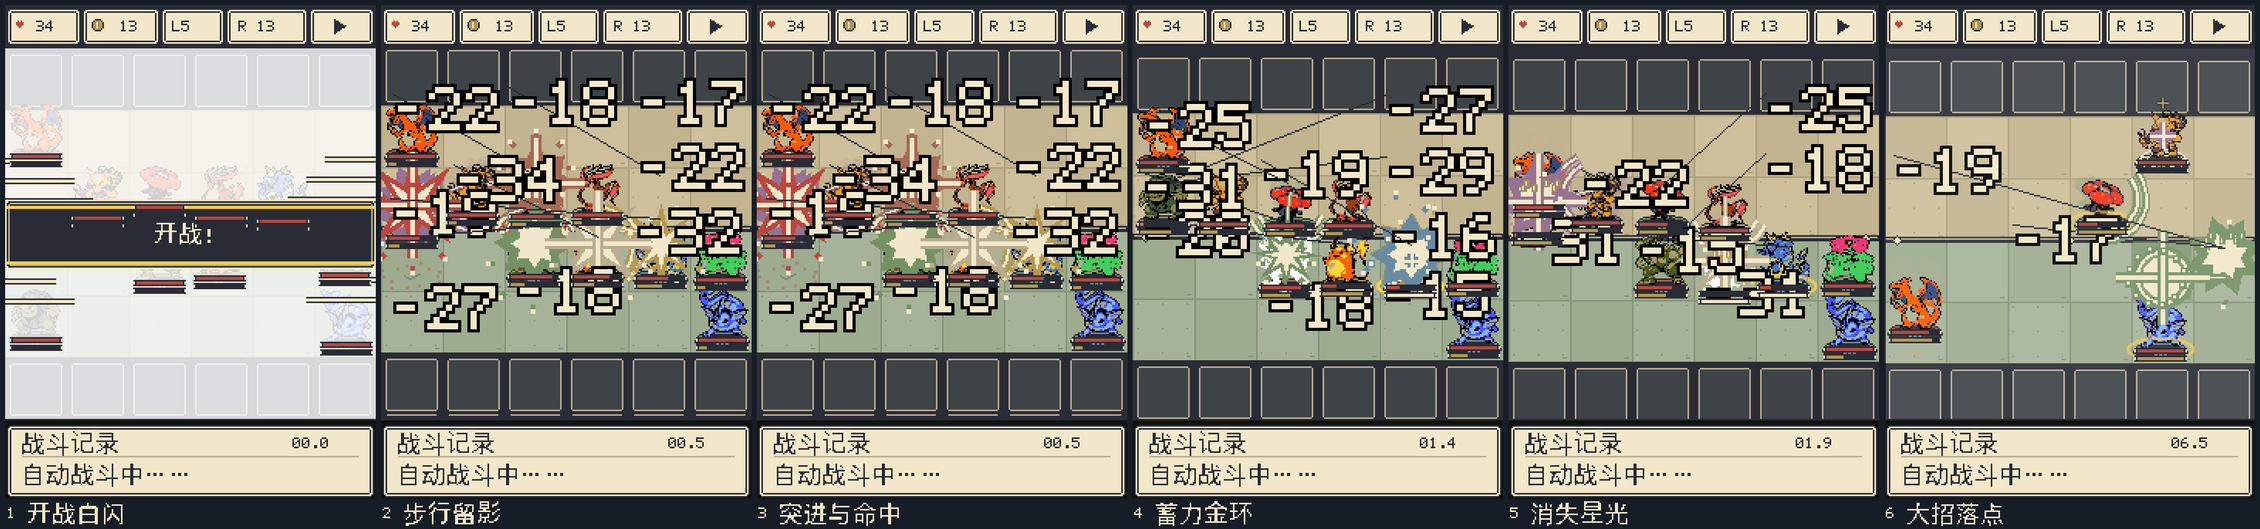
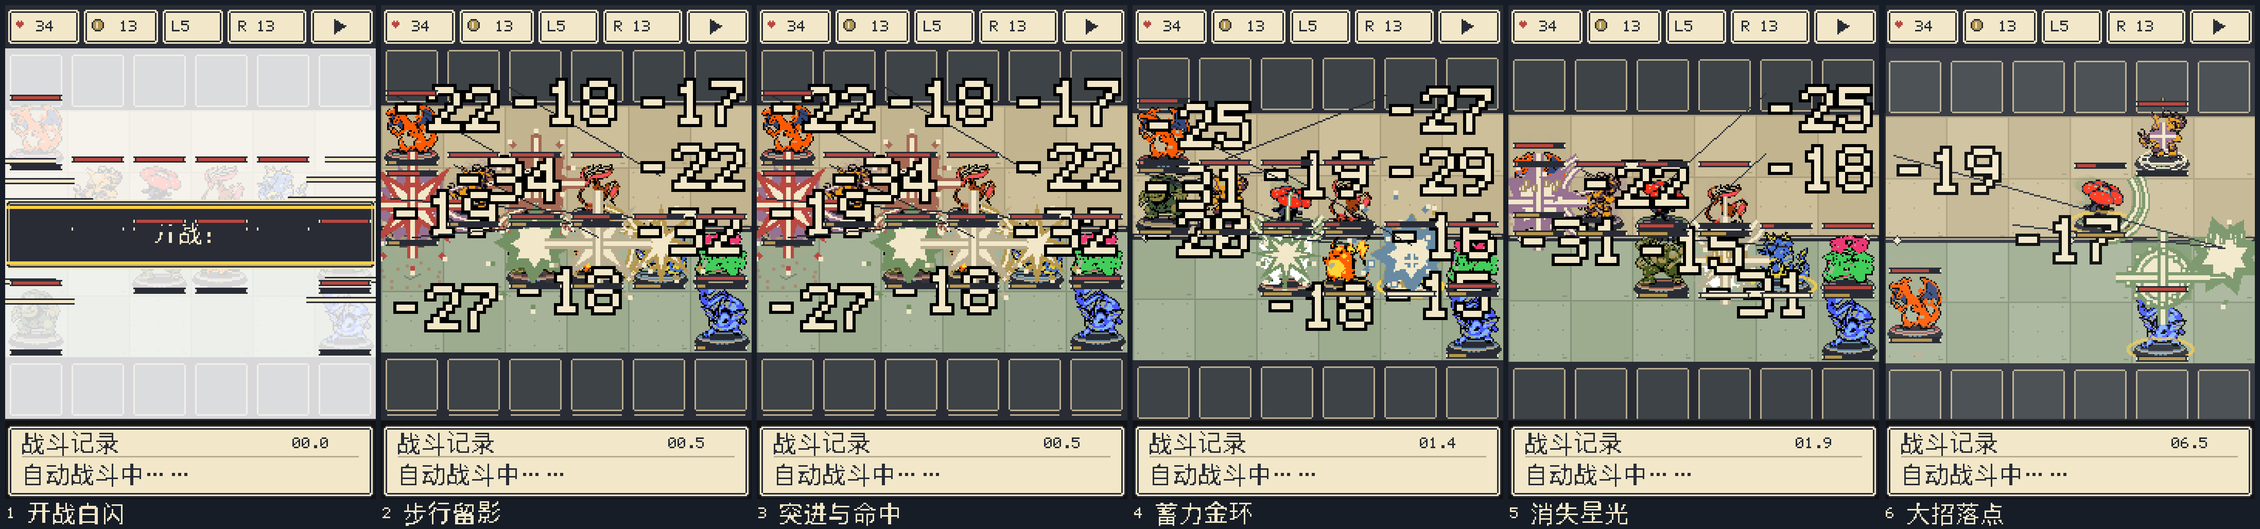
美术第 6 期：天气渲染 + 状态图标带（半成品视觉落地）
- 四天气棋盘 tint(调色板替换保纯度) + 粒子 + 金银播报文案 + HUD 图标
- 状态图标带(底座上方 6px) + 中毒紫晕/冰冻静止 + DOT 小字
- 红线：天气 diff 23429-26434(阈值1200)、全部既有检查通过、渲染 2.8s

diff --git a/tools/mockups/fx_visibility_check.py b/tools/mockups/fx_visibility_check.py
@@ -16,11 +16,14 @@
 遮挡（≤2 帧），以及全属性变体、力度边界、地痕寿命和物种动作覆盖。
 第 5 期新增 palette_purity（含全部压缩相位）与 scale_compare 三联图核对，
 在 40px 格和 32/34px 目标盒下继续执行原可见度红线。
+第 6 期直调 BattleAnimation(weather_name)，逐帧检查同阵容无天气对照
+与同事件流视觉隔离对照（均 ≥1200px），并核对真实 status_shock 图标。
 """
 
 import argparse
 import copy
 import json
+import sys
 import time
 from collections import defaultdict
 from itertools import combinations
@@ -30,8 +33,14 @@ from PIL import Image, ImageChops, ImageDraw
 
 import render_battle_gif as r
 
+sys.path.insert(0, str(r.ROOT))
+from tools.acceptance.server import SCENARIOS  # noqa: E402
+import status as status_mod  # noqa: E402
+import synergy as synergy_mod  # noqa: E402
+
 
 LIMITS = {"attack": 600, "land": 1500, "opening": 2500}
+WEATHER_LIMIT = 1200
 MAX_BOARD_OVERLAP = 4
 
 
@@ -357,6 +366,217 @@ def scale_compare_checks(anim):
     return {"species": 6, "source_px": source.width, "samples": samples, "failures": failures}
 
 
+def scenario_animation(seed, name, assets, weather_name=None):
+    """共享线上场景阵容，开关只在构造期间启用，绝不修改 sim 文件。"""
+    sc = SCENARIOS[name]
+    pieces = {p.name: p for group in r.build_roster().values() for p in group}
+    previous, previous_synergy = status_mod.STATUS_ON, synergy_mod.SYNERGIES_ON
+    try:
+        status_mod.STATUS_ON = bool(sc.get("status"))
+        synergy_mod.SYNERGIES_ON = False  # /anim 的默认 synergy=False。
+        return r.BattleAnimation([pieces[n] for n in sc["a"]], [pieces[n] for n in sc["b"]],
+                                 seed, assets.front, assets.pal, assets.font,
+                                 weather_name=weather_name)
+    finally:
+        status_mod.STATUS_ON = previous
+        synergy_mod.SYNERGIES_ON = previous_synergy
+
+
+def weather_checks(seed, assets, output):
+    failures, rows = [], []
+    rect = (r.BX, r.BY, r.BX + r.BCOLS * r.BCELL, r.BY + r.BROWS * r.BCELL)
+    for weather in r.WEATHER_PALETTES:
+        scenario = f"weather_{weather}" if weather != "hail" else "weather_rain"
+        anim = scenario_animation(seed, scenario, assets, weather)
+        clear = scenario_animation(seed, scenario, assets)
+        samples, visual_samples = [], []
+        maximum_overlap, meter_streak, max_streak, meter_checks = 0, 0, 0, 0
+        t, end = 0.0, max(e[0] for e in anim.events) + 1.2
+        while t <= end:
+            anim._ensure(t)
+            clear._ensure(t)
+            board = board_frame(anim, t)
+            # 同 seed 同阵容无天气；另外只关闭渲染天气，排除数值臂造成的 diff。
+            reference = board_frame(clear, t)
+            visual_clear = copy.copy(anim)
+            visual_clear.weather_name = None
+            isolated = board_frame(visual_clear, t)
+            count = diff_pixels(reference.crop(rect), board.crop(rect))
+            visual_count = diff_pixels(isolated.crop(rect), board.crop(rect))
+            samples.append(count)
+            visual_samples.append(visual_count)
+            if min(count, visual_count) < WEATHER_LIMIT:
+                failures.append({"kind": "weather", "weather": weather, "t": round(t, 4),
+                                 "diff_1x": count, "visual_only_diff_1x": visual_count})
+            overlap, _, meters, obscured, layer_failures = unit_layer_checks(anim, t, board)
+            maximum_overlap = max(maximum_overlap, overlap)
+            meter_checks += meters
+            meter_streak = meter_streak + 1 if obscured else 0
+            max_streak = max(max_streak, meter_streak)
+            failures.extend(layer_failures)
+            particles = r.weather_particles(weather, t)
+            if len(particles) != 8 or any(not (r.BX <= x <= rect[2] - w and
+                                            r.BY <= y <= rect[3] - h)
+                                         for x, y, w, h, _ in particles):
+                failures.append({"kind": "weather_particles", "weather": weather, "t": t})
+            if r.effect_frame(t) == 10:
+                save_pair(output, f"seed-{seed}-weather-{weather}", isolated, board)
+            t += r.FPS_DT
+        # 每格只能出现其原有颜色的天气替代色，不接受整图滤镜或软边。
+        before, after = r.board_floor(None), r.board_floor(weather)
+        replacements = dict(zip(r.FLOOR_COLORS, r.WEATHER_PALETTES[weather]))
+        off_palette = 0
+        for cy in range(r.BROWS):
+            for cx in range(r.BCOLS):
+                tile = (cx * r.BCELL, cy * r.BCELL, (cx + 1) * r.BCELL, (cy + 1) * r.BCELL)
+                allowed = {replacements.get(c[:3], c[:3]) + (255,)
+                           for _, c in before.crop(tile).getcolors(r.BCELL ** 2)}
+                off_palette += sum(n for n, c in after.crop(tile).getcolors(r.BCELL ** 2)
+                                   if c not in allowed)
+        if off_palette or max_streak > 2:
+            failures.append({"kind": "weather_layers", "weather": weather,
+                             "off_palette_pixels": off_palette, "meter_occlusion": max_streak})
+        for char in r.WEATHER_MESSAGES[weather]:
+            glyph = Image.new("RGBA", (16, 16))
+            r.draw_weather_text(glyph, (0, 0), char, anim.font)
+            if not glyph.getbbox():
+                failures.append({"kind": "weather_message_missing_glyph", "char": char})
+        rows.append({"weather": weather, "frames": len(samples), "min_1x": min(samples),
+                     "visual_only_min_1x": min(visual_samples), "threshold_1x": WEATHER_LIMIT,
+                     "off_palette_pixels": off_palette, "particles_per_frame": 8,
+                     "max_overlap_px": maximum_overlap, "meter_checks": meter_checks,
+                     "max_meter_occlusion_frames": max_streak})
+    return {"samples": rows, "failures": failures}
+
+
+def status_checks(seed, assets, output):
+    anim = scenario_animation(seed, "status_shock", assets)
+    failures, samples = [], []
+    applies = [ev for ev in anim.events if ev[1] == "status" and ev[4] == "apply"]
+    if not applies:
+        failures.append({"kind": "status_fixture", "reason": "no status apply events"})
+    t, end, checked = 0.0, max(e[0] for e in anim.events) + 1.2, 0
+    meter_streak, max_streak, max_overlap = 0, 0, 0
+    while t <= end:
+        display = anim.frame(t).convert("RGB")
+        board = board_frame(anim, t)
+        overlap, _, _, obscured, layer_failures = unit_layer_checks(anim, t, board)
+        max_overlap = max(max_overlap, overlap)
+        meter_streak = meter_streak + 1 if obscured else 0
+        max_streak = max(max_streak, meter_streak)
+        failures.extend(layer_failures)
+        for idx, au in anim.units.items():
+            kinds = anim._active_statuses(au, t)[:3]
+            if not kinds or au.dying(t):
+                continue
+            layer = Image.new("RGBA", (r.W, r.H))
+            anim._draw_status_band(layer, au, t)
+            bounds = layer.getbbox()
+            if bounds is None or bounds[3] - bounds[1] != 6 or bounds[2] - bounds[0] > 20:
+                failures.append({"kind": "status_band", "t": t, "unit": idx, "bounds": bounds})
+                continue
+            checked += 1
+            meters = Image.new("RGBA", (r.W, r.H))
+            anim._draw_unit_meters(meters, au, t, anim._unit_pose(au, t))
+            shake, visible, colored = anim._board_shake(t), 0, 0
+            for y in range(bounds[1], bounds[3]):
+                for x in range(bounds[0], bounds[2]):
+                    pixel = layer.getpixel((x, y))
+                    if pixel[3] and meters.getpixel((x, y))[3]:
+                        failures.append({"kind": "status_meter_overlap", "t": t, "unit": idx})
+                    if pixel[3] and pixel[:3] != r.INK:
+                        colored += 1
+                        visible += int(board.getpixel((x, y + shake)) == pixel[:3])
+            if not colored or visible != colored:
+                failures.append({"kind": "status_visibility", "t": t, "unit": idx,
+                                 "expected": colored, "visible": visible})
+            covered = any(c[0] <= t < c[1] for c in anim.cutins)
+            if not covered and (not samples or t - samples[-1]["t"] >= 0.5):
+                row = {"t": round(t, 4), "unit": idx, "kinds": kinds,
+                       "icon_pixels": visible, "bounds": bounds}
+                samples.append(row)
+                if output:
+                    display.save(output / f"seed-{seed}-status-{t:.1f}-unit-{idx}.png")
+        t += r.FPS_DT
+    if not checked or max_streak > 2:
+        failures.append({"kind": "status_coverage", "checked": checked, "meter_occlusion": max_streak})
+    return {"apply_events": len(applies), "checked_unit_frames": checked, "samples": samples,
+            "max_overlap_px": max_overlap, "max_meter_occlusion_frames": max_streak,
+            "failures": failures}
+
+
+def status_contract_checks(assets):
+    """补齐真实电队不覆盖的状态：只向独立回放夹具注入公开事件。"""
+    anim = copy.copy(assets)
+    anim.units = {i: copy.deepcopy(assets.units[i]) for i in range(6)}
+    kinds = ("burn", "poison", "para", "freeze", "sleep", "flinch")
+    anim.events = [(0., "deploy", i, (i % 3 * 2, i // 3 * 2)) for i in range(6)]
+    anim.events += [(1., "status", i, kind, "apply", 0) for i, kind in enumerate(kinds)]
+    anim.events += [(1.2, "status", 0, "burn", "tick", 3),
+                    (1.2, "status", 1, "poison", "tick", 4),
+                    (1.4, "status", 3, "freeze", "apply", 0)]
+    anim.events += [(2., "status", i, kind, "expire", 0) for i, kind in enumerate(kinds)]
+    anim._reset()
+    failures, checked = [], []
+    before = anim.frame(0.9)
+    applied = anim.frame(1.)
+    for i, kind in enumerate(kinds):
+        canonical = "paralysis" if kind == "para" else kind
+        if anim._active_statuses(anim.units[i], 1.) != [canonical]:
+            failures.append({"kind": "status_apply", "status": kind})
+        checked.append(canonical)
+    # 冻结后的位置、压缩、四颜色与完整身体像素均保持不变（含刷新）。
+    frozen_frames = []
+    for t in (1., 1.1, 1.5, 1.9):
+        anim._ensure(t)
+        au = anim.units[3]
+        layer = Image.new("RGBA", (r.W, r.H))
+        anim._draw_unit(layer, au, t, anim._unit_pose(au, t), r.ParticleBudget())
+        frozen_frames.append(layer)
+    if any(diff_pixels(frozen_frames[0], frame) for frame in frozen_frames[1:]):
+        failures.append({"kind": "freeze_motion"})
+    for i, damage in ((0, 3), (1, 4)):
+        if anim.units[i].hp != anim.units[i].u.max_hp - damage:
+            failures.append({"kind": "status_dot_hp", "unit": i})
+    if anim._active_statuses(anim.units[5], 1.9):
+        failures.append({"kind": "flinch_lifetime"})
+    # DOT 与普攻使用同一个避让器，同时发生也保持 scale=1 和独立位置。
+    calls = []
+    anim._draw_damage_number = lambda img, xy, text, color, scale: calls.append((xy, color, scale))
+    anim._ensure(1.2)
+    anim.floats.append((1.2, *anim.units[0].render_px(1.2), "-12", (255, 255, 255)))
+    anim._draw_floats(Image.new("RGBA", (r.W, r.H)), 1.2)
+    dot_calls = [call for call in calls if call[1] in r.DOT_COLORS.values()]
+    if len(dot_calls) != 2 or any(call[2] != 1 for call in dot_calls) or len({c[0] for c in calls}) != 3:
+        failures.append({"kind": "status_dot_numbers", "calls": calls})
+    del anim._draw_damage_number
+    # 各身体状态仍只有四种替代色，alpha 保留二值；天气不改精灵色板。
+    for status in ("poison", "freeze"):
+        for squash in range(7):
+            sprite = anim._status_sprite(6, 3, squash, status)
+            pixels = sprite.getcolors(sprite.width * sprite.height)
+            if len({c[:3] for _, c in pixels if c[3]}) > 4 or any(c[3] not in (0, 255) for _, c in pixels):
+                failures.append({"kind": "status_palette", "status": status, "squash": squash})
+    anim._ensure(2.)
+    if any(au.statuses for au in anim.units.values()):
+        failures.append({"kind": "status_expire"})
+    if diff_pixels(before, anim.frame(0.9)) or diff_pixels(applied, anim.frame(1.)):
+        failures.append({"kind": "status_rewind"})
+    # 1 减益 + 2 增益只占 20×6px；死亡无须 expire 即清除图标。
+    for kind in r.BUFF_KINDS:
+        anim._apply((1., "status", 0, kind, "apply", 0))
+    layer = Image.new("RGBA", (r.W, r.H))
+    anim._draw_status_band(layer, anim.units[0], 1.)
+    left, top, right, bottom = layer.getbbox()
+    if (right - left, bottom - top) != (20, 6):
+        failures.append({"kind": "status_band_cap"})
+    anim._apply((1.1, "die", 0))
+    if anim.units[0].statuses:
+        failures.append({"kind": "status_death_cleanup"})
+    return {"kinds": checked, "frozen_frames": len(frozen_frames),
+            "dot_numbers": len(dot_calls), "palette_variants": 14, "failures": failures}
+
+
 def check_seed(seed, output=None):
     start = time.perf_counter()
     anim = make_animation(seed)
@@ -462,6 +682,15 @@ def check_seed(seed, output=None):
     failures.extend(comparison["failures"])
     summary["palette_purity"] = {k: v for k, v in purity.items() if k != "failures"}
     summary["scale_compare"] = {k: v for k, v in comparison.items() if k != "failures"}
+    weather = weather_checks(seed, anim, output)
+    statuses = status_checks(seed, anim, output)
+    status_contracts = status_contract_checks(anim)
+    failures.extend(weather["failures"])
+    failures.extend(statuses["failures"])
+    failures.extend(status_contracts["failures"])
+    summary["weather"] = {k: v for k, v in weather.items() if k != "failures"}
+    summary["status"] = {k: v for k, v in statuses.items() if k != "failures"}
+    summary["status_contracts"] = {k: v for k, v in status_contracts.items() if k != "failures"}
     report = {"seed": seed, "summary": summary, "frames": rows, "isolated": isolated,
               "styles": styles, "motions": motions,
               "failures": failures, "elapsed_seconds": round(time.perf_counter() - start, 3)}

diff --git a/tools/mockups/render_battle_gif.py b/tools/mockups/render_battle_gif.py
@@ -90,6 +90,17 @@ WEATHER_PALETTES = {
 }
 WEATHER_MESSAGES = {"rain": "下雨了！", "sun": "阳光强烈！",
                     "sand": "沙暴肆虐了！", "hail": "开始下冰雹了！"}
+# 现有 FNT1 子集缺这四字；补充固定 16px 单色字模，无系统字体运行依赖。
+WEATHER_GLYPHS = {
+    "肆": (0x0000, 0x0000, 0x2260, 0x3f68, 0x31fc, 0x3e6e, 0x33ff, 0x366c,
+           0x31fc, 0x336c, 0x7ffe, 0x3c66, 0x27ff, 0x7f60, 0x7260, 0x0060),
+    "虐": (0x0000, 0x0000, 0x0380, 0x03fc, 0x2384, 0x3ffe, 0x33be, 0x33fc,
+           0x3bcc, 0x31fc, 0x3018, 0x37fc, 0x3606, 0x3ffe, 0x6608, 0x47fc),
+    "雨": (0x0000, 0x0000, 0x0006, 0x7fff, 0x0180, 0x0188, 0x3ffc, 0x35ec,
+           0x37bc, 0x37bc, 0x318c, 0x37bc, 0x37bc, 0x318c, 0x31bc, 0x311c),
+    "雹": (0x0000, 0x0000, 0x0018, 0x1ff8, 0x3ffe, 0x618e, 0x6180, 0x1df0,
+           0x1d10, 0x1ffc, 0x3fd8, 0x38d8, 0x5fd8, 0x18ba, 0x1816, 0x1ffe),
+}
 WEATHER_ICONS = {
     "rain": (("0110", "1111", "0000", "1010"), (104, 139, 163)),
     "sun": (("1001", "0110", "0110", "1001"), (193, 139, 43)),
@@ -120,6 +131,19 @@ def draw_pixel_icon(img, xy, rows, color):
         for x, bit in enumerate(row):
             if bit == "1":
                 draw.point((xy[0] + x, xy[1] + y), fill=color)
+
+
+def draw_weather_text(img, xy, text, font):
+    draw_text(img, xy, text, font, INK)
+    draw = ImageDraw.Draw(img)
+    offset = 0
+    for ch in text:
+        if ch in WEATHER_GLYPHS and not font.text(ch).getbbox():
+            for y, row in enumerate(WEATHER_GLYPHS[ch]):
+                for x in range(16):
+                    if row & (1 << (15 - x)):
+                        draw.point((xy[0] + offset + x, xy[1] + y), fill=INK)
+        offset += text_width(ch)
 
 
 @lru_cache(maxsize=5)
@@ -490,7 +514,7 @@ class BattleAnimation:
     def _active_statuses(self, au, T):
         # sim 的 flinch 只发 apply；这个短促反馈按其 0.3s 视觉寿命自行隐去。
         return [kind for kind in STATUS_ICONS if kind in au.statuses
-                and (kind != "flinch" or 0 <= T - au.statuses[kind] < 0.3)]
+                and (kind != "flinch" or 0 <= effect_frame(T - au.statuses[kind]) < 3)]
 
     def _reset(self) -> None:
         for au in self.units.values():
@@ -951,7 +975,7 @@ class BattleAnimation:
             # 底座外沿完整闭合的 2px 金描边；画在精灵之后，背侧也清晰可见。
             halo = Image.new("RGBA", (BCELL + 6, 18))
             hd = ImageDraw.Draw(halo)
-            alpha = (160, 208, 255, 255, 208, 160)[effect_frame(T) % 6]
+            alpha = 208 if frozen else (160, 208, 255, 255, 208, 160)[effect_frame(T) % 6]
             hd.ellipse((1, 1, BCELL + 4, 16), outline=FULL_GOLD + (alpha,), width=2)
             img.alpha_composite(halo, (px_ - 3, foot - 8))
         if dying and 0 <= age < FPS_DT and budget.take(1):
@@ -1285,7 +1309,10 @@ class BattleAnimation:
         # 40px 棋盘后日志只有 48px：按原消息寿命分页，一次完整显示一行。
         lines = wrap_text(text, W - 36)
         line = lines[min(len(lines) - 1, max(0, int((T - t0) / 0.6)))]
-        draw_text(img, (10, y0 + 24), line, self.font, HP_RED if "拔群" in line else INK)
+        if self.weather_name in WEATHER_MESSAGES and 0 <= T <= 1.8:
+            draw_weather_text(img, (10, y0 + 24), line, self.font)
+        else:
+            draw_text(img, (10, y0 + 24), line, self.font, HP_RED if "拔群" in line else INK)
         if int(T * 4) % 2 == 0:
             cx, cy = W - 18, H - 10
             draw.polygon(((cx - 3, cy - 3), (cx + 3, cy - 3), (cx, cy)), fill=INK)

diff --git a/docs/design/codex-art-notes.md b/docs/design/codex-art-notes.md
@@ -300,3 +300,65 @@ QualityGate 最终本地返回 `gate=pass`、`raw_gate=pass`、`block_merge=fals
 对本期开始快照核对：seed 7／11 事件列表逐项一致；重复取帧／回卷对照 **20 组通过**；`AnimUnit`、事件初始化、`_reset`、`_ensure`、`_apply`、`frame`、移动插值、切镜及最终 GIF 量化函数 AST 均不变，`decoders.py` SHA256 不变。无 `sim/`、`data/` 或事件／回放修改。三份 Python 源码编译和 `git diff --check` 通过。
 
 QualityGate 本地返回 `gate=pass`、`raw_gate=pass`、`block_merge=false`、`execution_complete=true`、`quality_confidence=full`、`incomplete_engines=[]`，actionable／shadow／advisory／deferred／waived 均为 0，修复轮次 0，无 guard 停止原因。不过本会话未注册 QualityGate MCP，runner 依赖不齐，三个 Python 路径无匹配规则，中央规则上下文和语义评审不可用；`agent_action=local_checks_passed` 不代表语义评审完成。Mutation 保持 `disabled`、未执行（CLI 返回 `not_applicable`）。本期验收依据为上述像素检查、裸跑计时、视觉检查及回放对照。
+
+## 第 6 期：天气与状态渲染
+
+依据 `docs/05-weather.md §3`、`docs/06-status-buffs.md §3` 补齐渲染。天气仍由 `BattleAnimation(weather_name=...)` 接入，状态只消费已有事件；本期没有修改 `sim/`、数值、阵容、几率或默认状态开关。
+
+### 视觉实现
+
+天气地砖采用缓存色板查表：草地、沙地各保留原来的三色关系，观战格单独替换底色。雨为约 0.85 亮度的蓝灰，晴为暖黄，沙为土黄，雹为冷白；不对精灵或整幅画面乘色，不产生软边或逐像素混合色。每种天气固定 **8 粒**，雨为三列错落的 1×4px 雨丝，晴为缓慢斜移的 2×2px 亮块，沙为横飞 2×1px 沙点，雹为快速下落的 2×2px 白点。位置只由帧号和序号计算，同时计入原棋盘粒子预算。
+
+开场消息窗显示「下雨了！」「阳光强烈！」「沙暴肆虐了！」「开始下冰雹了！」，保留 1.8s；HUD 右侧增加 4×4px 天气图标。实看发现 FNT1 字库缺少「雨、肆、虐、雹」，已在渲染器补齐四个固定单色字模，并加入缺字检查；无需更换解码器或运行时加载系统字体。
+
+状态带在逻辑脚点上方 7px 开始，占 **6px 高、最多 20px 宽（3 个槽）**。火点橙、骷髅紫、闪电黄、雪花白、2×3px 的 Z 为蓝；畏缩补一枚短促的米色星点。兼容事件实际使用的 `para` 和契约中的 `paralysis`；畏缩没有 expire 事件，因此按 3 帧寿命隐去。已有光墙、反射壁、剑舞事件也可显示图标及对应底座细环。
+
+HP 条移到逻辑格顶上方 10px，精灵最多上溢 4px；能量条留在脚下。状态带及两条读数最后重绘，再一起随棋盘震屏。中毒隔帧使用 15% 紫色的固定四种替代色，冰冻使用四种冷白替代色，并锁定位置、身体姿态及压缩帧，刷新不会跳姿态；灼伤脚边每帧两粒橙色火点。DOT tick 更新回放 HP，绿色／紫色数字为 scale=1，复用原伤害数字避让。expire、死亡、倒放均清理或重建状态，不读取模拟器终局状态容器。
+
+### 天气与既有红线
+
+执行：
+
+```bash
+PYTHONDONTWRITEBYTECODE=1 python3 tools/mockups/fx_visibility_check.py --output /tmp/poke-phase6/final
+```
+
+`weather` 检查直接构造 `BattleAnimation(weather_name=...)`，阵容来自场景库，开关与 `/anim` 默认 `synergy=False` 一致。同 seed、同阵容分别跑有／无天气；另外对同一事件流仅关闭视觉天气，排除数值变化对 diff 的贡献。逐帧比较 **240×240 棋盘区域的 RGB 变化像素数**，不计 HUD／消息窗，也不把全屏切镜当成棋盘特效证据；切镜期间仍量测底层棋盘。两种对照的最低读数在本次样本中相同。
+
+| 天气 | seed 7 最低 diff／检查帧数 | seed 11 最低 diff／检查帧数 | 红线 |
+| --- | ---: | ---: | ---: |
+| rain | **23,433px／90** | **23,494px／79** | ≥1,200px |
+| sun | **23,439px／88** | **23,509px／79** | ≥1,200px |
+| sand | **26,434px／65** | **25,296px／69** | ≥1,200px |
+| hail（复用雨场景阵容，直接传 hail） | **23,429px／90** | **23,500px／79** | ≥1,200px |
+
+四天气共 **639 帧**全部通过；每格调色板外像素 **0**，粒子数量及棋盘边界检查通过。原有 84 物种 × 7 压缩相位的 **588 张缩图**仍为调色板外像素 0、半透明像素 0，三联图 6 个样本 diff 为 0。
+
+| 既有检查（默认 seed 7／11） | seed 7 | seed 11 | 红线 |
+| --- | ---: | ---: | ---: |
+| 普攻独立首帧最低 diff | 848px | 816px | ≥600px |
+| 大招独立首帧最低 diff | 57,600px | 1,832px | ≥1,500px |
+| 开战活跃帧最低 diff | 17,366px | 21,201px | ≥2,500px |
+| 横向精灵重叠 | 0px | 0px | ≤4px |
+| 状态条连续遮挡 | 0 帧 | 0 帧 | ≤2 帧 |
+| 完整 GIF 导出进程 | **2.800s** | **2.646s** | ≤8s |
+
+新增天气／状态场景也检查 crowding 和状态条遮挡：最大重叠 0px，最长遮挡 **1 帧**，未越过 2 帧红线。17 系双变体、力度边界、地痕寿命和动作分桶检查继续通过。完整导出包含初始化、逐帧渲染、量化、两尺寸 GIF、分镜和三联图写盘，输出隔离在 `/tmp/poke-phase6/export-{seed}`；两种尺寸的 GIF 均逐帧解码通过，seed 7／11 为 80／74 个编码帧，总时长 10.2／9.7s。
+
+### 状态图标带人工抽查（3 帧）
+
+检查实际场景帧并按原尺寸与最近邻放大查看；下列均是未被切镜覆盖的画面。坐标记录为震屏前 6px 图标槽的左上角。
+
+| 场景／seed／时间 | 对应事件与单位 | 图标抽查结论 |
+| --- | --- | --- |
+| status_shock／7／0.3s（第 3 帧） | 0.3s flinch apply，idx 8 宝石海星 | (17,131) 米色星点 7px 可见，开战横幅未覆盖图标；与头顶 HP 分离。 |
+| status_shock／7／3.1s（第 31 帧） | 3.1s flinch apply，idx 8 宝石海星 | 同一底座位置星点重新出现，7px 全部保留；跳字和命中效果未遮图标。 |
+| status_shock／14／5.6s（第 56 帧） | 4.5s para apply，idx 9 蚊香泳士 | (137,211) 黄色闪电 8px 可见，头顶 HP 与脚下能量条均不压住图标。 |
+
+默认 seed 7／11 实际分别有 **3／8 次 apply**，均为畏缩；逐帧核对 **9／24 个挂状态单位帧**，图标彩色像素全部保留。另对 seed 14 全场运行 `status_checks`，覆盖真实麻痹，**52 个单位帧**通过，重叠与状态条遮挡均为 0。没有提高状态几率来制造样本。
+
+渲染夹具覆盖全部六种减益、para 别名、冰冻刷新后四帧身体像素一致、DOT HP 与两枚 scale=1 数字的独立位置、14 个状态色板／压缩组合、expire、死亡清理、三槽上限和倒放重建。也查看了六状态身体对照图，冰冻静态冷白、中毒紫色、灼伤脚边粒子及睡眠 Z 均可辨认。
+
+直接调用场景后台 `render_battle` 并读取导出 PNG：seed 7 的 rain／sun／sand／status_shock 分别 **1.316／1.240／0.994／0.924s**，输出 105／103／80／93 帧；四种天气开场文案及 HUD 图标均已实看。Python 源码编译、`git diff --check` 通过；检查器默认两种子退出 0、失败数 0。
+
+QualityGate 本地返回 `gate=pass`、`raw_gate=pass`、`block_merge=false`、`execution_complete=true`、`quality_confidence=full`、`incomplete_engines=[]`，actionable／shadow／advisory／deferred／waived 均为 0，修复轮次 0，无 guard 停止原因。当前会话未注册 QualityGate MCP，runner 与仓库 capsule 不完整，中央规则上下文及语义评审不可用；`agent_action=local_checks_passed` 不代表语义评审通过。Mutation 保持 disabled、未执行（CLI 返回 not_applicable）。有效验收依据为上面的像素、回放、视觉及导出检查。
